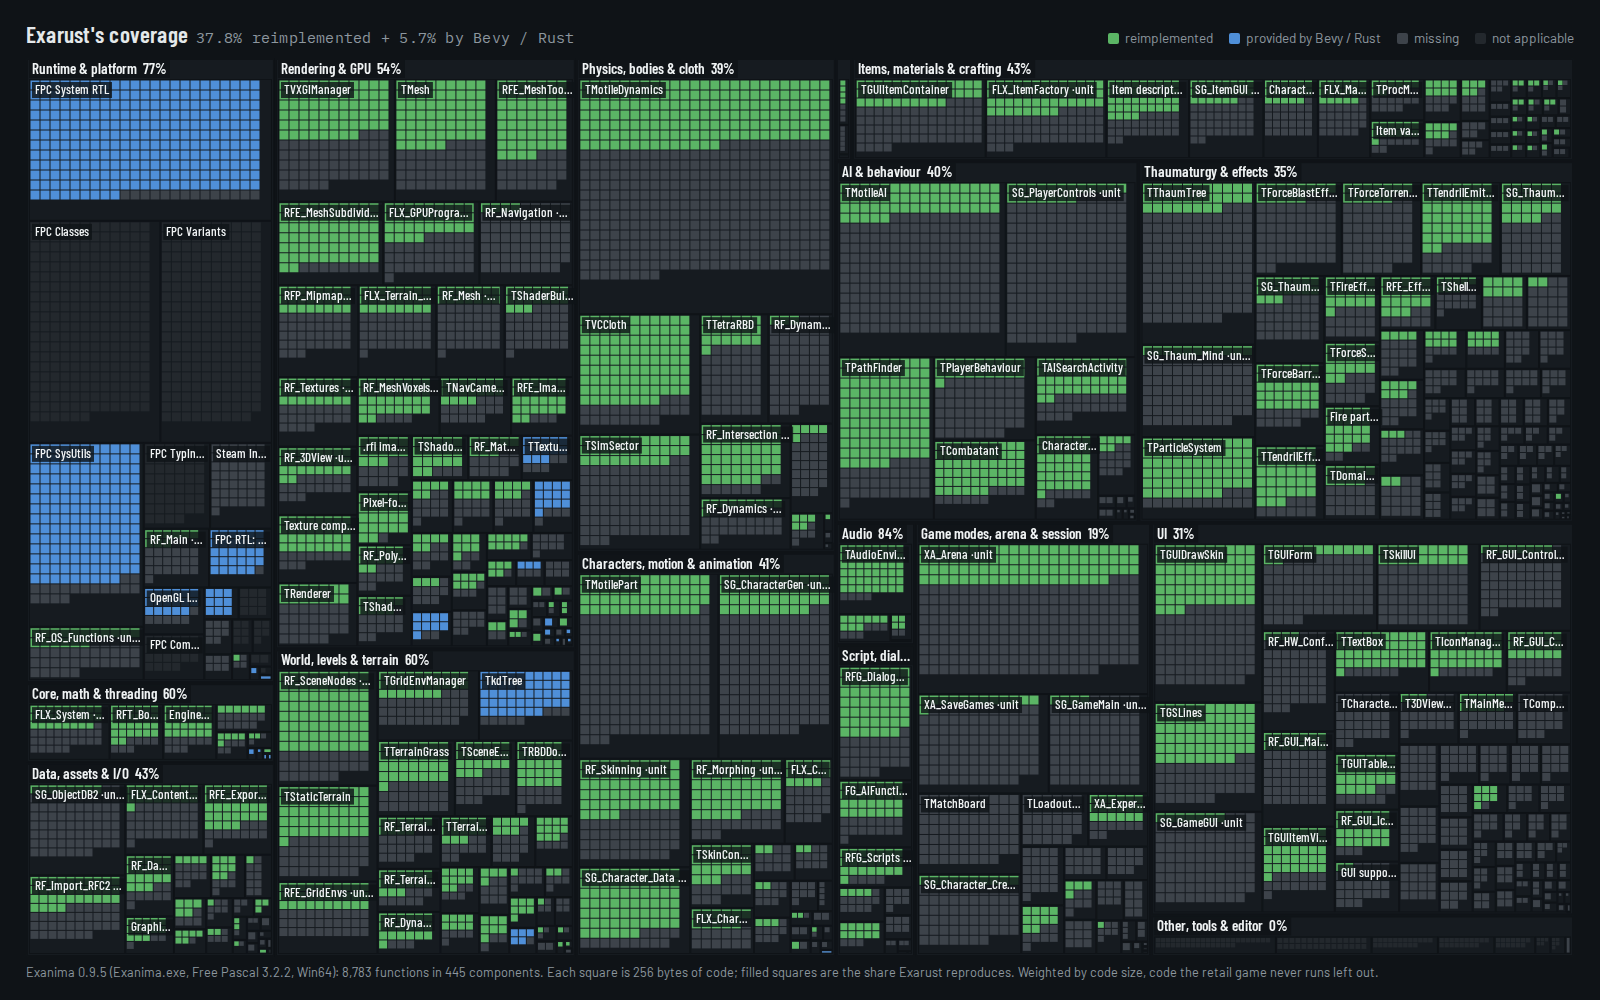
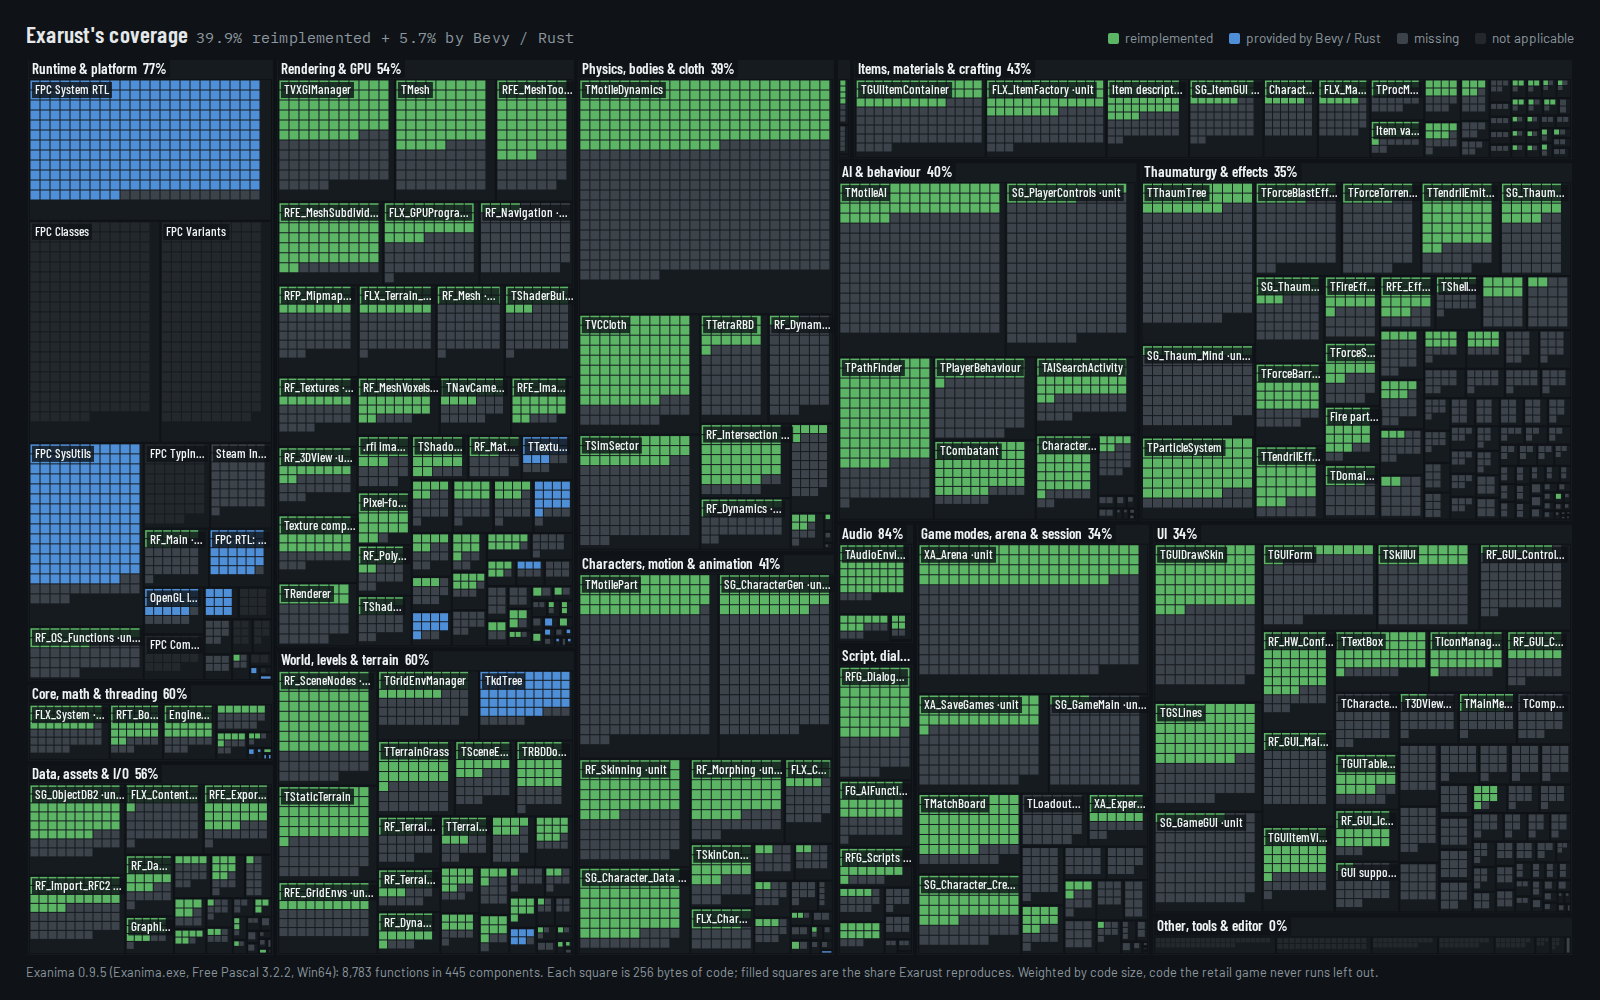
Record the object database, save games, creator, match board and hardware configuration in the coverage history
TMatchBoard 3% -> 82%, RF_HW_Config 7% -> 78%, SG_ObjectDB2 11% -> 74%,
SG_Character_Create 15% -> 65%, XA_SaveGames 12% -> 35%. Headline 37.8% ->
39.9% reimplemented (5.7% engine-provided).

diff --git a/docs/COMPONENT-MAP.md b/docs/COMPONENT-MAP.md
@@ -5,8 +5,8 @@ Every function of the retail `Exanima.exe` (Exanima 0.9.5, Free Pascal 3.2.2, Wi
 ## Headline
 
 - **8,783 functions**, 2,616 KB of code, in **445 components** across 16 sections.
-- Weighted by code size, with code the retail game never runs left out (1,343 functions, 163 KB): **37.8% reimplemented** by Exarust's own code and **5.7% provided** by Bevy, wgpu, rapier or the Rust standard library.
-- Weighted by function count (zero-byte imported names left out): 32.4% and 12.5%. The runtime's many tiny RTL routines make this figure lean towards the engine, which is why code size is the headline.
+- Weighted by code size, with code the retail game never runs left out (1,343 functions, 163 KB): **39.9% reimplemented** by Exarust's own code and **5.7% provided** by Bevy, wgpu, rapier or the Rust standard library.
+- Weighted by function count (zero-byte imported names left out): 35.6% and 12.5%. The runtime's many tiny RTL routines make this figure lean towards the engine, which is why code size is the headline.
 - The 24 combat-rule functions (52 KB of damage, armour and weapon-stat rules inside body, part, AI and item owners) are **32.3%** reproduced.
 
 ## By section
@@ -15,7 +15,7 @@ Every function of the retail `Exanima.exe` (Exanima 0.9.5, Free Pascal 3.2.2, Wi
 |---|---:|---:|---:|---:|---:|---|
 | Runtime & platform | 2,407 | 293 | 26 | 4% | 72% | Steam Input action bindings, Win32 clipboard image/icon glue, Steam API glue |
 | Core, math & threading | 282 | 37 | 11 | 59% | 1% |  |
-| Data, assets & I/O | 440 | 91 | 26 | 43% | 0% | TStringLibrary, RF_DataManager, RFG_Locales routines (RFE_Export_RFC2 by address) |
+| Data, assets & I/O | 440 | 91 | 26 | 56% | 0% | TStringLibrary, RF_DataManager, RFG_Locales routines (RFE_Export_RFC2 by address) |
 | Rendering & GPU | 823 | 334 | 63 | 51% | 3% | FLX_IconRender, Shading-mask GLSL snippets, Screen-quad GLSL snippets |
 | World, levels & terrain | 454 | 174 | 31 | 52% | 7% | TSector, Scene node despawn and viewport step (TSceneTaskInt by address), TTerrainPlugin |
 | Physics, bodies & cloth | 363 | 242 | 13 | 39% | 0% | RFE_Dynamics_Cloth, TSimObject |
@@ -26,8 +26,8 @@ Every function of the retail `Exanima.exe` (Exanima 0.9.5, Free Pascal 3.2.2, Wi
 | Thaumaturgy & effects | 697 | 296 | 83 | 35% | 0% | RF_Env_Effects, TForceBubbleEffect, SG_Thaumaturgy |
 | Audio | 59 | 18 | 4 | 84% | 0% |  |
 | Script, dialogue & story | 184 | 46 | 11 | 61% | 0% | TDialogueChoices, TScriptRole, TGameTips |
-| Game modes, arena & session | 646 | 193 | 23 | 19% | 0% | TMatchBoard, TLoadoutForm, TDivCardForm |
-| UI | 959 | 312 | 63 | 31% | 0% | TCharacterView, TCompactSkillUI, RF_GUI_Text_Edit |
+| Game modes, arena & session | 646 | 193 | 23 | 34% | 0% | TLoadoutForm, TDivCardForm, TCharCreation |
+| UI | 959 | 312 | 63 | 34% | 0% | TCharacterView, TCompactSkillUI, RF_GUI_Text_Edit |
 | Other, tools & editor | 171 | 33 | 8 | 0% | 0% | Debug command registry (unit before RF_Dynamics) |
 
 - **Runtime & platform.** The Free Pascal runtime, the Windows imports and the engine's thin platform layer: program entry, window and OpenGL context, the frame loop with its pacing, and Steam with Steam Input gamepads. Much of the linked runtime never runs. Rust std, winit, Bevy and wgpu cover most of what does run; Steam, gamepads, the custom cursor, fullscreen display modes and the error message box are missing.
@@ -54,17 +54,12 @@ Ordered by code size; these are where most of the original still has no counterp
 | component | section | functions | KB | coverage |
 |---|---|---:|---:|---:|
 | SG_PlayerControls | AI & behaviour | 122 | 47 | 10% |
-| XA_SaveGames | Game modes, arena & session | 96 | 27 | 12% |
 | SG_GameGUI | UI | 62 | 22 | 8% |
 | SG_Thaum_Mind | Thaumaturgy & effects | 45 | 21 | 13% |
 | TGUIForm | UI | 77 | 20 | 16% |
 | SG_GameMain | Game modes, arena & session | 59 | 20 | 5% |
-| SG_ObjectDB2 | Data, assets & I/O | 116 | 19 | 11% |
-| TMatchBoard | Game modes, arena & session | 30 | 17 | 3% |
-| SG_Character_Create | Game modes, arena & session | 90 | 17 | 15% |
 | RF_GUI_Controls_Ex | UI | 54 | 16 | 13% |
 | RF_Navigation | Rendering & GPU | 37 | 16 | 6% |
-| RF_HW_Config | UI | 89 | 15 | 7% |
 | RF_Dynamics_Volumes | Physics, bodies & cloth | 7 | 14 | 5% |
 | Steam Input action bindings | Runtime & platform | 29 | 11 | 0% |
 | TCharacterView | UI | 21 | 8 | 1% |
@@ -78,6 +73,11 @@ Ordered by code size; these are where most of the original still has no counterp
 | TForceBarrierEffect | Thaumaturgy & effects | 7 | 5 | 9% |
 | TSelectionUI | UI | 18 | 5 | 0% |
 | TEmblemForm | UI | 18 | 4 | 0% |
+| TPwrForceKinesis_S | Thaumaturgy & effects | 9 | 4 | 10% |
+| TSkillSelector | UI | 8 | 3 | 0% |
+| TCharCreation | Game modes, arena & session | 12 | 3 | 3% |
+| XA_Arena save and rank helpers (TMatchBoard by address) | Game modes, arena & session | 9 | 3 | 0% |
+| RF_Env_Effects | Thaumaturgy & effects | 6 | 3 | 0% |
 
 ## Best covered components
 
@@ -92,7 +92,9 @@ Ordered by code size; these are where most of the original still has no counterp
 | RFE_MeshSubdivide | Rendering & GPU | 18 | 88% | exa_assets/src/mesh_smooth.rs; exa_assets/src/model.rs |
 | TMesh | Rendering & GPU | 25 | 60% | exa_formats/src/rfc.rs; exa_assets/src/model.rs |
 | TGSLines | UI | 24 | 60% | exa_ui/src/skin.rs |
+| SG_ObjectDB2 | Data, assets & I/O | 19 | 74% | exa_formats/src/objdb.rs; exa_formats/src/objdb/store.rs |
 | TCombatant | AI & behaviour | 17 | 85% | exa_ai/src/combatant.rs; exa_ai/src/place.rs |
+| TMatchBoard | Game modes, arena & session | 17 | 82% | exa_ui/src/match_board.rs; exa_game/src/arena_board.rs |
 | RF_Skinning | Characters, motion & animation | 25 | 55% | exa_assets/src/skin.rs; exa_assets/src/model.rs |
 | RFE_MeshTools | Rendering & GPU | 19 | 70% | exa_assets/src/mesh_edit.rs; exa_assets/src/vertex_cache.rs |
 | RF_Morphing | Characters, motion & animation | 16 | 76% | exa_formats/src/morph.rs; exa_assets/src/morph_controller.rs |
@@ -100,9 +102,7 @@ Ordered by code size; these are where most of the original still has no counterp
 | RFG_Dialogue | Script, dialogue & story | 18 | 65% | exa_script/src/dialogue.rs; exa_script/src/bubbles.rs |
 | FLX_ItemFactory | Items, materials & crafting | 24 | 50% | exa_formats::factory; exa_formats::weapon_stats |
 | RF_Intersection | Physics, bodies & cloth | 14 | 85% | exa_physics/src/intersect.rs; exa_render/src/cube_shadows.rs |
-| TStaticTerrain | World, levels & terrain | 20 | 57% | exa_world/src/terrain/mod.rs; exa_world/src/terrain/patch.rs |
-| TTendrilEmitter | Thaumaturgy & effects | 15 | 72% | exa_game/src/thaum/arcs.rs; exa_game/src/thaum/engine.rs |
-| TTextBox | UI | 12 | 88% | exa_ui/src/text_box.rs; exa_ui/src/text_layout.rs |
+| RF_HW_Config | UI | 15 | 78% | exa_formats/src/hw_config.rs; exa_ui/src/settings.rs |
 
 ## Combat rules
 

diff --git a/docs/reviews/coverage-history.md b/docs/reviews/coverage-history.md
@@ -85,3 +85,4 @@ while the map was being built, so treat the row as a best-effort snapshot.
 | 2026-10-21 | 9f6d8b46 | clean | 26.8% | 5.7% | 22.7% | 27.3% | small effect nodes |
 | 2026-10-21 | d8e9153f | clean | 35.3% | 5.7% | 30.0% | 27.3% | wave 1: salvage (locomotion, grid, clip clocks), role scripts and dialogue, roles and search, mesh smoothing, thaumaturgy effects, GUI widgets, item possessions and windows |
 | 2026-10-21 | a349aae1 | clean | 37.8% | 5.7% | 32.4% | 32.3% | scene nodes, particles, electricity, teleporters, character data, sun fit, textures, content stream, terrain, combatant |
+| 2026-10-21 | 15bab6cb | clean | 39.9% | 5.7% | 35.6% | 32.3% | object database, save games, creator, match board, hardware configuration |
